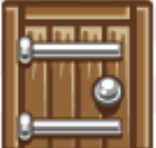
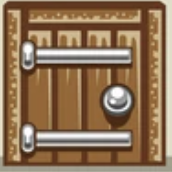
Changes how Game & GameService interact, add checks for open door.

diff --git a/runtime/src/ui/room_ui.py b/runtime/src/ui/room_ui.py
@@ -17,16 +17,12 @@ def tile_pos(col, row):
 class RoomUi:
     tile_size = 50
 
-    def __init__(
-        self,
-        window: tk.Tk,
-        move_player,
-        do_action,
-    ):
+    def __init__(self, window: tk.Tk, move_player, do_action, exit_room):
         self.window = window
 
         self._move_player = move_player
         self._do_action = do_action
+        self._exit_room = exit_room
 
         self.canvas = tk.Canvas(
             self.window,
@@ -43,14 +39,24 @@ class RoomUi:
 
         self.player_img_src = self._createTkImage("gfx/player.png")
         self.wall_img_src = self._createTkImage("gfx/wall.png")
-        self.door_img_src = self._createTkImage("gfx/door.png")
+        self.door_img_src = self._createTkImage("gfx/door-open.png")
+        self.door_closed_img_src = self._createTkImage("gfx/door.png")
 
         self.canvas.grid(row=0, column=0)
+
+        self._is_door_open = False
+        self.room = None
 
         self._bindKeys()
 
     def update_room(self, room):
         self.room = room
+
+    def open_door(self):
+        self._is_door_open = True
+
+    def close_door(self):
+        self._is_door_open = False
 
     def draw(self):
         if self.room is None:
@@ -72,7 +78,12 @@ class RoomUi:
                     )
                 if isinstance(block, Door):
                     self.canvas.create_image(
-                        pos[0], pos[1], anchor=tk.NW, image=self.door_img_src
+                        pos[0],
+                        pos[1],
+                        anchor=tk.NW,
+                        image=self.door_img_src
+                        if self._is_door_open
+                        else self.door_closed_img_src,
                     )
                 if isinstance(block, Item):
                     self.canvas.create_text(
@@ -99,16 +110,31 @@ class RoomUi:
 
     def _move(self, dCol: int, dRow: int):
         player_col, player_row = self._get_player_position()
-
         new_player_col, new_player_row = player_col + dCol, player_row + dRow
-        if isinstance(self.room[new_player_row][new_player_col], Empty):
-            self.room[new_player_row][new_player_col] = self.room[player_row][
-                player_col
-            ]
-            self.room[player_row][player_col] = Empty()
-            self.draw()
+        if self._tile_is_empty(new_player_col, new_player_row):
+            self._draw_and_move_player(
+                player_col, player_row, new_player_col, new_player_row
+            )
 
-            self._move_player(new_player_col, new_player_row)
+        if self._tile_is_open_door(new_player_col, new_player_row):
+            self._exit_room()
+
+    def _tile_is_empty(self, new_player_col, new_player_row):
+        return isinstance(self.room[new_player_row][new_player_col], Empty)
+
+    def _tile_is_open_door(self, new_player_col, new_player_row):
+        return (
+            isinstance(self.room[new_player_row][new_player_col], Door)
+            and self._is_door_open
+        )
+
+    def _draw_and_move_player(
+        self, player_col, player_row, new_player_col, new_player_row
+    ):
+        self.room[new_player_row][new_player_col] = self.room[player_row][player_col]
+        self.room[player_row][player_col] = Empty()
+        self.draw()
+        self._move_player(new_player_col, new_player_row)
 
     def _act(self, *args):
         player_col, player_row = self._get_player_position()

diff --git a/runtime/src/game/game.py b/runtime/src/game/game.py
@@ -1,46 +1,58 @@
-import requests
-from src.endpoint_provider.endpoint_provider import EndpointProvider
+from src.endpoints.endpoints import Endpoints
 from src.room_parser.building_blocks.item import Item
 
 from src.room_parser.room_parser import RoomParser
 from src.ui.ui import UI
+from src.game_service.game_service import GameService
 
 
 class Game:
-    stats = {}
-
     def __init__(self):
         self.ui = UI(self)
-        self.current_room_index = 0
-        self.endpoint_provider = EndpointProvider()
+        self.endpoints = Endpoints()
+        self.game_service = GameService(self.endpoints)
 
-    def update_room(self, room_json):
-        room = RoomParser().parse(room_json["layout"])
-        self.ui.update_room(room)
-        self.ui.draw()
+    def tick(self):
+        self._get_room()
+        self._get_stats()
+        self._check_if_door_is_open()
 
-    def update_stats(self, stats):
-        self.stats = stats
-        self.ui.update_stats(stats)
+    def _get_room(self):
+        room_json = self.game_service.get_room()
+        if room_json:
+            room = RoomParser().parse(room_json["layout"])
+            self.ui.update_room(room)
+            self.ui.draw()
+
+    def _get_stats(self):
+        stats_json = self.game_service.get_stats()
+        self.ui.update_stats(stats_json)
         self.ui.draw()
 
     def move_player_to(self, col, row):
-        response = requests.post(f"{self.room_url}/walk?column={col}&row={row}")
-        if "application/json" in response.headers.get("Content-Type", ""):
-            print("Move response: ", str(response.json()))
+        response_json = self.game_service.move(col, row)
+        if response_json is not None:
+            print("Move response: ", str(response_json))
         else:
             print("Response does not contain JSON data")
 
     def do_action(self, item: Item | None):
-        print("Action on", item.identifier if item is not None else None)
+        response_json = self.game_service.act(item)
+        if response_json is not None:
+            print("Interact response: ", str(response_json))
+        else:
+            print("Response does not contain JSON data")
 
-    @property
-    def room_url(self):
-        return self.endpoint_provider.rooms_endpoints[self.current_room_index]
+    def _check_if_door_is_open(self):
+        is_door_open = self.game_service.open()
+        if is_door_open:
+            self.ui.open_door()
+        else:
+            self.ui.close_door()
 
-    def next_room(self):
-        rooms_count = len(self.endpoint_provider.rooms_endpoints)
-        self.current_room_index = (self.current_room_index + 1) % rooms_count
+    def exit_room(self):
+        print("Exiting room")
+        exit()
 
     def mainloop(self):
         self.ui.mainloop()

diff --git a/runtime/src/game_service/game_service.py b/runtime/src/game_service/game_service.py
@@ -1,23 +1,36 @@
 import requests
-from src.endpoint_provider.endpoint_provider import EndpointProvider
-
-from src.game.game import Game
+from src.endpoints.endpoints import Endpoints
+from src.room_parser.building_blocks.item import Item
 
 
 class GameService:
-    def __init__(self, game: Game):
-        self.game = game
+    def __init__(self, endpoints: Endpoints):
+        self.endpoints = endpoints
 
     def get_room(self):
-        try:
-            json_data = requests.get(EndpointProvider().rooms_endpoints[0]).json()
-            self.game.update_room(json_data)
-        except Exception as e:
-            print(str(e))
+        return self._request(f"{self.endpoints.room_url}")
 
     def get_stats(self):
+        return self._request(f"{self.endpoints.stats_endpoint}/hp")
+
+    def move(self, column, row):
+        return self._request(
+            f"{self.endpoints.room_url}/walk?column={column}&row={row}", "POST"
+        )
+
+    def act(self, item: Item | None = None):
+        item_param = f"item={item.identifier}" if item is not None else "item=c"
+        return self._request(f"{self.endpoints.room_url}/interact?{item_param}", "POST")
+
+    def open(self):
+        return self._request(f"{self.endpoints.room_url}/open")
+
+    def _request(self, to_endpoint, method="GET", payload=None):
         try:
-            json_data = requests.get(EndpointProvider().stats_endpoint + "/hp").json()
-            self.game.update_stats(json_data)
+            request_method = requests.get if method == "GET" else requests.post
+            response = request_method(to_endpoint, data=payload)
+            if "application/json" not in response.headers.get("Content-Type", ""):
+                return None
+            return response.json()
         except Exception as e:
             print(str(e))

diff --git a/runtime/src/ui/ui.py b/runtime/src/ui/ui.py
@@ -16,7 +16,9 @@ class UI:
         self.window = tk.Tk()
         self._initWindowGeometry(self.window)
 
-        self._room_ui = room_ui.RoomUi(self.window, self._move_player, self._do_action)
+        self._room_ui = room_ui.RoomUi(
+            self.window, self._move_player, self._do_action, self._exit_room
+        )
         self._stats_ui = stats_ui.StatsUI(self.window)
         self._room_decription_ui = room_description_ui.RoomDescriptionUI(self.window)
 
@@ -31,6 +33,12 @@ class UI:
     def update_stats(self, stats):
         self._stats_ui.update_stats(stats)
 
+    def open_door(self):
+        self._room_ui.open_door()
+
+    def close_door(self):
+        self._room_ui.close_door()
+
     def mainloop(self):
         self.window.mainloop()
 
@@ -44,3 +52,6 @@ class UI:
 
     def _do_action(self, *args):
         self._game.do_action(*args)
+
+    def _exit_room(self, *args):
+        self._game.exit_room()

diff --git a/runtime/main.py b/runtime/main.py
@@ -3,14 +3,12 @@ import asyncio
 from src import game_service
 
 from src.game.game import Game
-from test.test_game_service import GameService
 
 
 async def tick():
-    global game_service
+    global game
     while True:
-        game_service.get_room()
-        game_service.get_stats()
+        game.tick()
         await asyncio.sleep(0.5)
 
 
@@ -27,7 +25,6 @@ if __name__ == "__main__":
     loop.create_task(tick())
 
     game = Game()
-    game_service = GameService(game)
 
     asyncio_thread = threading.Thread(target=run)
     asyncio_thread.daemon = True

diff --git a/runtime/src/endpoints/endpoints.py b/runtime/src/endpoints/endpoints.py
@@ -1,0 +1,14 @@
+class Endpoints:
+    stats_endpoint = "http://localhost:8002/stats"
+    rooms_endpoints = ["http://localhost:8004/key"]
+
+    def __init__(self):
+        self.current_room_index = 0
+
+    @property
+    def room_url(self):
+        return self.rooms_endpoints[self.current_room_index]
+
+    def next_room(self):
+        rooms_count = len(self.rooms_endpoints)
+        self.current_room_index = (self.current_room_index + 1) % rooms_count
